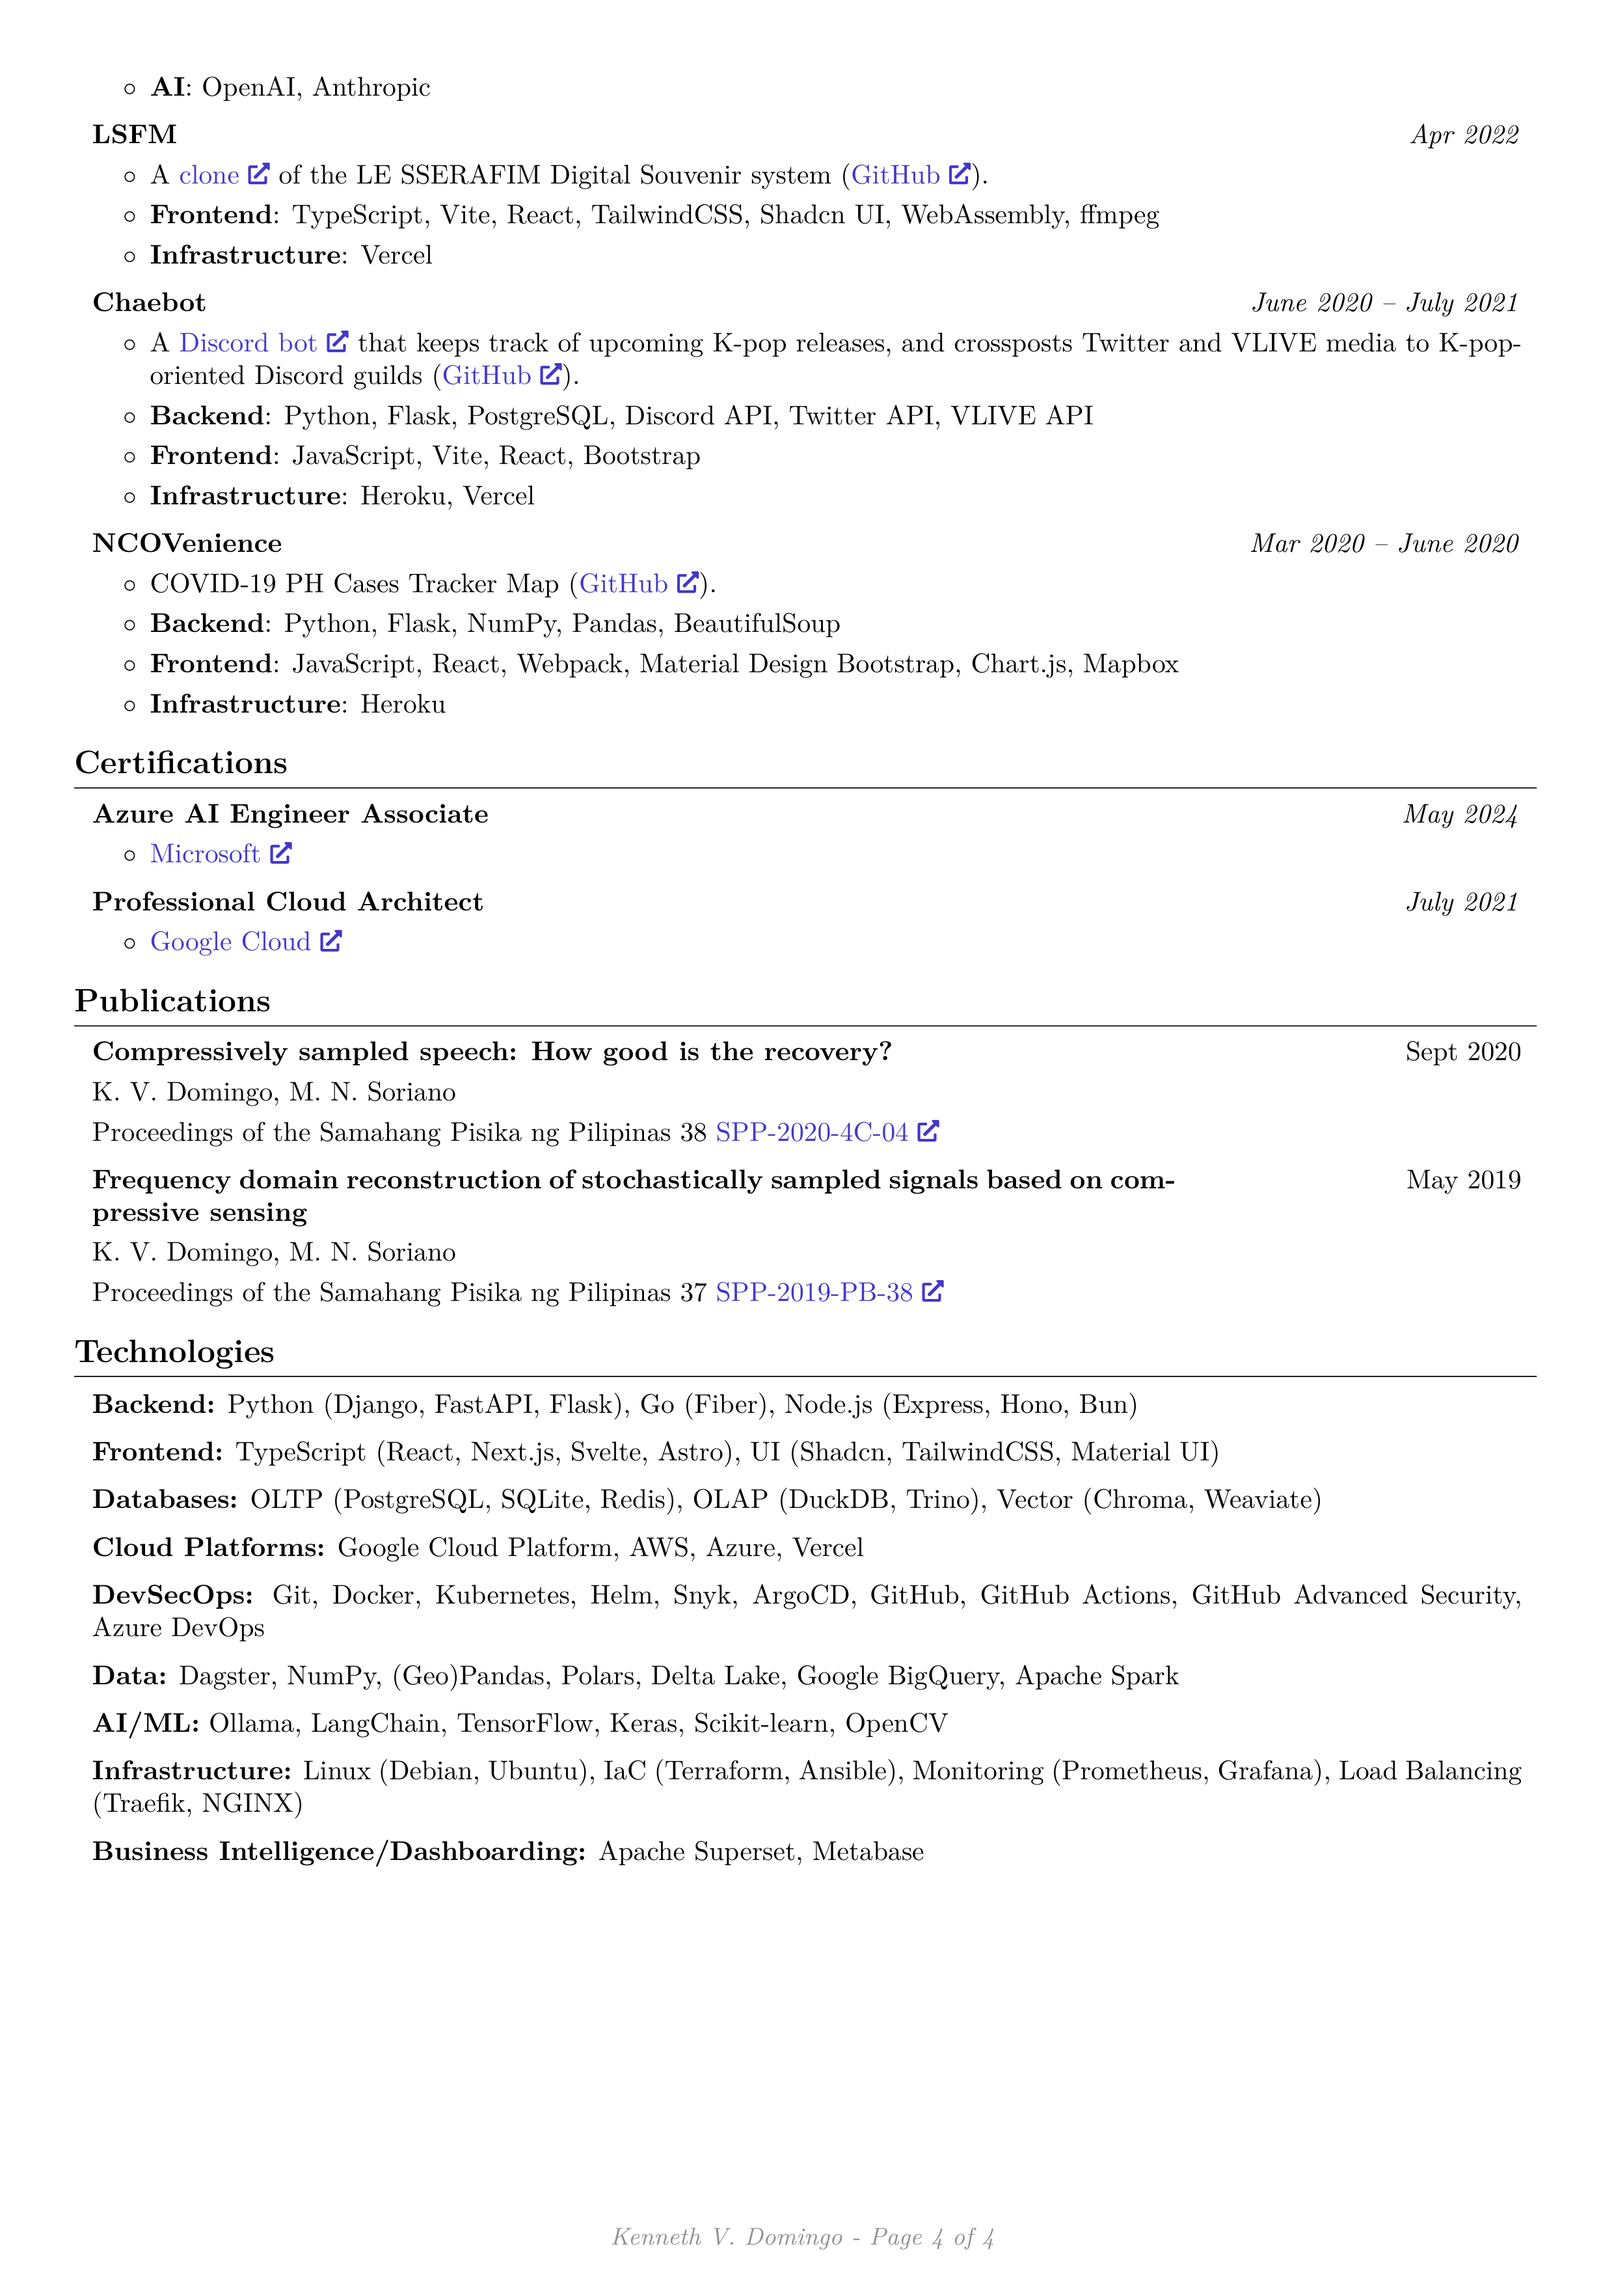
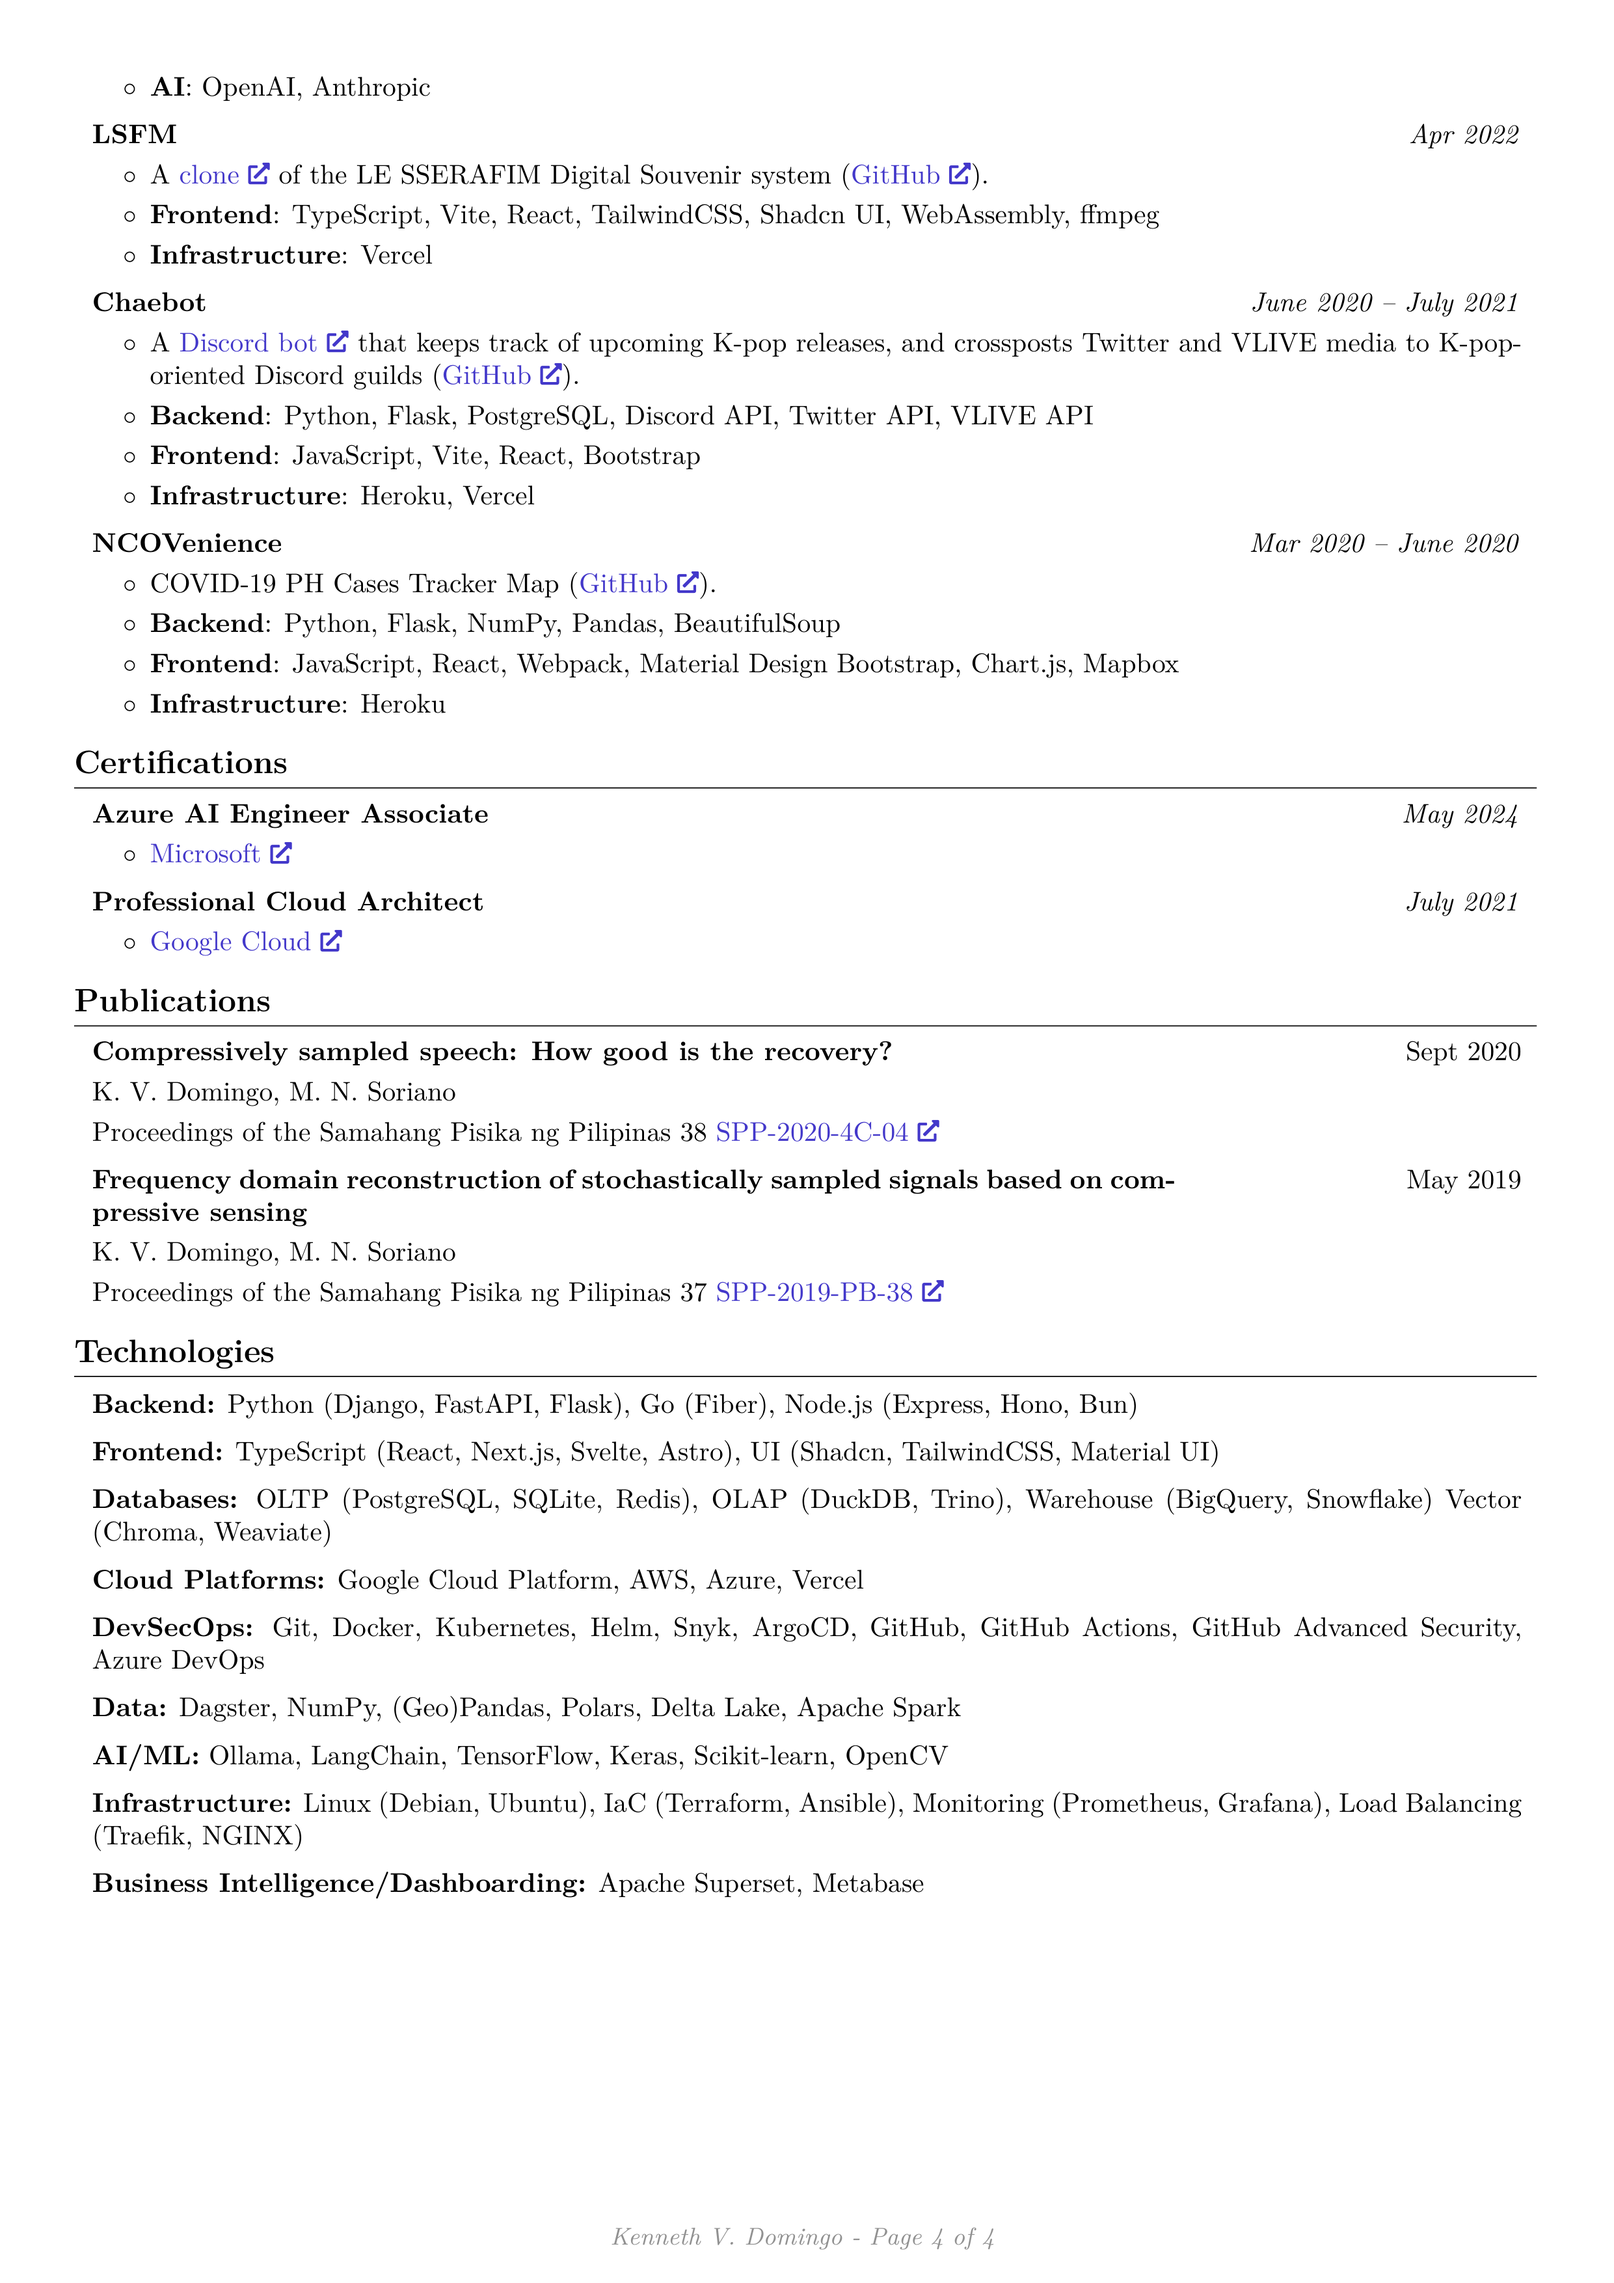
feat: update databases

diff --git a/rendercv_output/Kenneth_V._Domingo_CV.html b/rendercv_output/Kenneth_V._Domingo_CV.html
@@ -344,13 +344,17 @@
         <ul>
         <li>Backend: Python (Django, FastAPI, Flask), Go (Fiber), Node.js (Express, Hono, Bun)</li>
         <li>Frontend: TypeScript (React, Next.js, Svelte, Astro), UI (Shadcn, TailwindCSS, Material UI)</li>
-        <li>Databases: OLTP (PostgreSQL, SQLite, Redis), OLAP (DuckDB, Trino), Vector (Chroma, Weaviate)</li>
-        <li>Cloud Platforms: Google Cloud Platform, AWS, Azure, Vercel</li>
+        <li>
+        <p>Databases: OLTP (PostgreSQL, SQLite, Redis), OLAP (DuckDB, Trino), Warehouse (BigQuery, Snowflake)  Vector (Chroma, Weaviate)</p>
+        </li>
+        <li>
+        <p>Cloud Platforms: Google Cloud Platform, AWS, Azure, Vercel</p>
+        </li>
         <li>
         <p>DevSecOps: Git, Docker, Kubernetes, Helm, Snyk, ArgoCD, GitHub, GitHub Actions, GitHub Advanced Security, Azure DevOps</p>
         </li>
         <li>
-        <p>Data: Dagster, NumPy, (Geo)Pandas, Polars, Delta Lake, Google BigQuery, Apache Spark</p>
+        <p>Data: Dagster, NumPy, (Geo)Pandas, Polars, Delta Lake, Apache Spark</p>
         </li>
         <li>AI/ML: Ollama, LangChain, TensorFlow, Keras, Scikit-learn, OpenCV</li>
         <li>

diff --git a/rendercv_output/Kenneth_V._Domingo_CV.tex b/rendercv_output/Kenneth_V._Domingo_CV.tex
@@ -828,7 +828,8 @@
         \vspace{0.2 cm}
 
         \begin{onecolentry}
-            \textbf{Databases:} OLTP (PostgreSQL, SQLite, Redis), OLAP (DuckDB, Trino), Vector (Chroma, Weaviate)
+            \textbf{Databases:} OLTP (PostgreSQL, SQLite, Redis), OLAP (DuckDB, Trino), Warehouse (BigQuery, Snowflake)  Vector (Chroma, Weaviate)
+
         \end{onecolentry}
 
         \vspace{0.2 cm}
@@ -847,7 +848,7 @@
         \vspace{0.2 cm}
 
         \begin{onecolentry}
-            \textbf{Data:} Dagster, NumPy, (Geo)Pandas, Polars, Delta Lake, Google BigQuery, Apache Spark
+            \textbf{Data:} Dagster, NumPy, (Geo)Pandas, Polars, Delta Lake, Apache Spark
         \end{onecolentry}
 
         \vspace{0.2 cm}

diff --git a/rendercv_output/Kenneth_V._Domingo_CV.md b/rendercv_output/Kenneth_V._Domingo_CV.md
@@ -276,11 +276,12 @@
 
 - Backend: Python (Django, FastAPI, Flask), Go (Fiber), Node.js (Express, Hono, Bun)
 - Frontend: TypeScript (React, Next.js, Svelte, Astro), UI (Shadcn, TailwindCSS, Material UI)
-- Databases: OLTP (PostgreSQL, SQLite, Redis), OLAP (DuckDB, Trino), Vector (Chroma, Weaviate)
+- Databases: OLTP (PostgreSQL, SQLite, Redis), OLAP (DuckDB, Trino), Warehouse (BigQuery, Snowflake)  Vector (Chroma, Weaviate)
+
 - Cloud Platforms: Google Cloud Platform, AWS, Azure, Vercel
 - DevSecOps: Git, Docker, Kubernetes, Helm, Snyk, ArgoCD, GitHub, GitHub Actions, GitHub Advanced Security, Azure DevOps
 
-- Data: Dagster, NumPy, (Geo)Pandas, Polars, Delta Lake, Google BigQuery, Apache Spark
+- Data: Dagster, NumPy, (Geo)Pandas, Polars, Delta Lake, Apache Spark
 - AI/ML: Ollama, LangChain, TensorFlow, Keras, Scikit-learn, OpenCV
 - Infrastructure: Linux (Debian, Ubuntu), IaC (Terraform, Ansible), Monitoring (Prometheus, Grafana),  Load Balancing (Traefik, NGINX)
 
